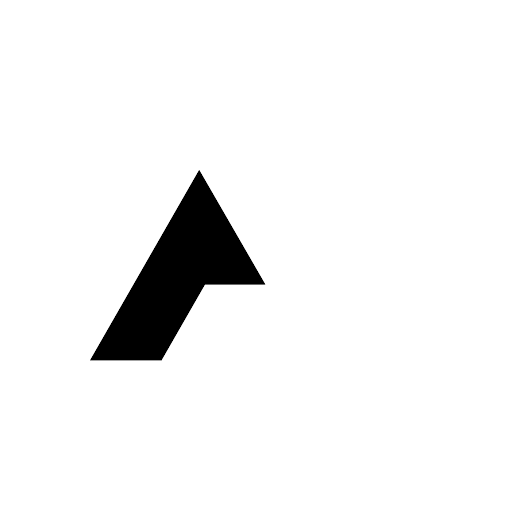
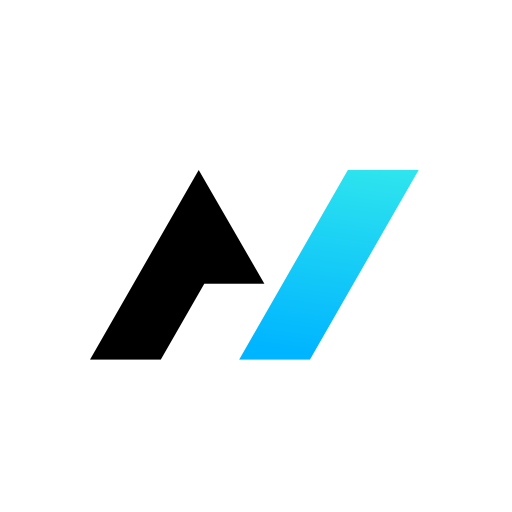
Preserve MCP OAuth org identity for embeds (#947)
* fix(core): preserve MCP OAuth org identity

* fix(assets): restore full MCP app icon

* fix(assets): use light MCP app icon background

* test(core): assert MCP OAuth refresh org identity

diff --git a/packages/core/src/mcp/oauth-route.spec.ts b/packages/core/src/mcp/oauth-route.spec.ts
@@ -22,8 +22,9 @@ vi.mock("../server/auth.js", () => ({
   getConfiguredLoginHtml: (...a: any[]) => getConfiguredLoginHtmlMock(...a),
 }));
 
+const getOrgDomainMock = vi.fn(async () => "builder.io");
 vi.mock("../org/context.js", () => ({
-  getOrgDomain: vi.fn(async () => "builder.io"),
+  getOrgDomain: (...args: any[]) => getOrgDomainMock(...args),
 }));
 
 const clients = new Map<string, any>();
@@ -327,8 +328,88 @@ describe("MCP OAuth route", () => {
       ),
     ).resolves.toMatchObject({
       userEmail: "steve@example.com",
+      orgId: "org_123",
       orgDomain: "builder.io",
       scopes: ["mcp:read", "mcp:apps"],
+      clientId: client.client_id,
+    });
+  });
+
+  it("preserves org_id in OAuth access tokens even when the org has no domain", async () => {
+    getOrgDomainMock.mockResolvedValueOnce(undefined);
+    const client = await (
+      await handleMcpOAuth(
+        event({
+          method: "POST",
+          body: {
+            redirect_uris: ["http://localhost:5555/callback"],
+          } as any,
+        }),
+        "/register",
+      )
+    ).json();
+    const verifier = "v".repeat(50);
+    const consent = await handleMcpOAuth(
+      event({
+        query: {
+          response_type: "code",
+          client_id: client.client_id,
+          redirect_uri: "http://localhost:5555/callback",
+          resource: "https://mail.agent-native.com/_agent-native/mcp",
+          code_challenge: challenge(verifier),
+          code_challenge_method: "S256",
+        },
+      }),
+      "/authorize",
+    );
+    const consentToken =
+      (await consent.text()).match(
+        /name="consent_token" value="([^"]+)"/,
+      )?.[1] ?? "";
+    const authorize = await handleMcpOAuth(
+      event({
+        method: "POST",
+        body: {
+          decision: "approve",
+          response_type: "code",
+          client_id: client.client_id,
+          redirect_uri: "http://localhost:5555/callback",
+          resource: "https://mail.agent-native.com/_agent-native/mcp",
+          code_challenge: challenge(verifier),
+          code_challenge_method: "S256",
+          consent_token: consentToken,
+        },
+      }),
+      "/authorize",
+    );
+    const code = new URL(authorize.headers.get("location")!).searchParams.get(
+      "code",
+    )!;
+
+    const token = await handleMcpOAuth(
+      event({
+        method: "POST",
+        body: {
+          grant_type: "authorization_code",
+          client_id: client.client_id,
+          redirect_uri: "http://localhost:5555/callback",
+          code,
+          code_verifier: verifier,
+        },
+      }),
+      "/token",
+    );
+    const body = await token.json();
+
+    await expect(
+      verifyMcpOAuthAccessToken(
+        body.access_token,
+        "https://mail.agent-native.com/_agent-native/mcp",
+      ),
+    ).resolves.toMatchObject({
+      userEmail: "steve@example.com",
+      orgId: "org_123",
+      orgDomain: undefined,
       clientId: client.client_id,
     });
   });
@@ -501,6 +582,17 @@ describe("MCP OAuth route", () => {
     expect(second.status).toBe(200);
     const body = await second.json();
     expect(body.refresh_token).not.toBe(first.refresh_token);
+    await expect(
+      verifyMcpOAuthAccessToken(
+        body.access_token,
+        "https://mail.agent-native.com/_agent-native/mcp",
+      ),
+    ).resolves.toMatchObject({
+      userEmail: "steve@example.com",
+      orgId: "org_123",
+      orgDomain: "builder.io",
+      clientId: client.client_id,
+    });
     expect(refreshRows.get(first.refresh_token)?.revokedAt).toBeTruthy();
   });
 

diff --git a/packages/core/src/mcp/oauth-token.ts b/packages/core/src/mcp/oauth-token.ts
@@ -9,6 +9,7 @@ export const MCP_OAUTH_DEFAULT_SCOPE = MCP_OAUTH_SCOPES.join(" ");
 
 export interface McpOAuthAccessTokenClaims {
   sub: string;
+  org_id?: string;
   org_domain?: string;
   scope: string;
   client_id: string;
@@ -51,6 +52,7 @@ export function hasMcpOAuthScope(
 
 export async function signMcpOAuthAccessToken(params: {
   ownerEmail: string;
+  orgId?: string | null;
   orgDomain?: string | null;
   clientId: string;
   scope: string;
@@ -60,6 +62,7 @@ export async function signMcpOAuthAccessToken(params: {
   return new jose.SignJWT({
     typ: "agent-native-mcp-oauth",
     sub: params.ownerEmail,
+    ...(params.orgId ? { org_id: params.orgId } : {}),
     ...(params.orgDomain ? { org_domain: params.orgDomain } : {}),
     scope: params.scope,
     client_id: params.clientId,
@@ -79,6 +82,7 @@ export async function verifyMcpOAuthAccessToken(
   resource: string | undefined,
 ): Promise<{
   userEmail: string;
+  orgId?: string;
   orgDomain?: string;
   scopes: string[];
   clientId: string;
@@ -101,6 +105,7 @@ export async function verifyMcpOAuthAccessToken(
     }
     return {
       userEmail: payload.sub,
+      orgId: typeof payload.org_id === "string" ? payload.org_id : undefined,
       orgDomain:
         typeof payload.org_domain === "string" ? payload.org_domain : undefined,
       scopes,

diff --git a/packages/core/src/mcp/build-server.ts b/packages/core/src/mcp/build-server.ts
@@ -115,6 +115,7 @@ export interface MCPConfig {
  */
 export interface MCPCallerIdentity {
   userEmail: string | undefined;
+  orgId?: string | undefined;
   orgDomain: string | undefined;
   /** Present only for standard remote MCP OAuth access tokens. */
   oauthScopes?: string[];
@@ -1201,7 +1202,9 @@ export async function createMCPServerForRequest(
   // in that case we run with no userEmail/orgId, which makes downstream
   // tools that require per-user scope return empty results rather than
   // cross-tenant data (the safe default).
-  const orgIdPromise = resolveOrgIdFromDomain(effectiveIdentity?.orgDomain);
+  const orgIdPromise = effectiveIdentity?.orgId
+    ? Promise.resolve(effectiveIdentity.orgId)
+    : resolveOrgIdFromDomain(effectiveIdentity?.orgDomain);
 
   /**
    * Wrap a callback in
@@ -1711,6 +1714,7 @@ export async function verifyAuth(
         authed: true,
         identity: {
           userEmail: oauthIdentity.userEmail,
+          ...(oauthIdentity.orgId ? { orgId: oauthIdentity.orgId } : {}),
           orgDomain: oauthIdentity.orgDomain,
           oauthScopes: oauthIdentity.scopes,
           oauthClientId: oauthIdentity.clientId,

diff --git a/packages/core/src/mcp/build-server.verify-auth.spec.ts b/packages/core/src/mcp/build-server.verify-auth.spec.ts
@@ -125,6 +125,7 @@ describe("verifyAuth — connect-token revoke check", () => {
     const resource = "https://mail.agent-native.com/_agent-native/mcp";
     const token = await signMcpOAuthAccessToken({
       ownerEmail: "oauth@example.com",
+      orgId: "org_123",
       orgDomain: "builder.io",
       clientId: "client-123",
       scope: "mcp:read mcp:apps",
@@ -138,6 +139,7 @@ describe("verifyAuth — connect-token revoke check", () => {
     expect(res.fullSurface).toBe(true);
     expect(res.identity).toEqual({
       userEmail: "oauth@example.com",
+      orgId: "org_123",
       orgDomain: "builder.io",
       oauthScopes: ["mcp:read", "mcp:apps"],
       oauthClientId: "client-123",

diff --git a/packages/core/src/mcp/oauth-route.ts b/packages/core/src/mcp/oauth-route.ts
@@ -745,6 +745,7 @@ async function handleRefreshTokenGrant(
     return oauthError("server_error", "Unable to derive issuer", 500);
   const accessToken = await signMcpOAuthAccessToken({
     ownerEmail: row.ownerEmail,
+    orgId: row.orgId,
     orgDomain: row.orgDomain,
     clientId: row.clientId,
     scope: row.scope,

diff --git a/.changeset/assets-mcp-oauth-org.md b/.changeset/assets-mcp-oauth-org.md
@@ -1,0 +1,6 @@
+---
+"@agent-native/core": patch
+---
+
+Preserve organization identity in remote MCP OAuth access tokens so MCP App
+embed sessions can resolve org-scoped credentials.
